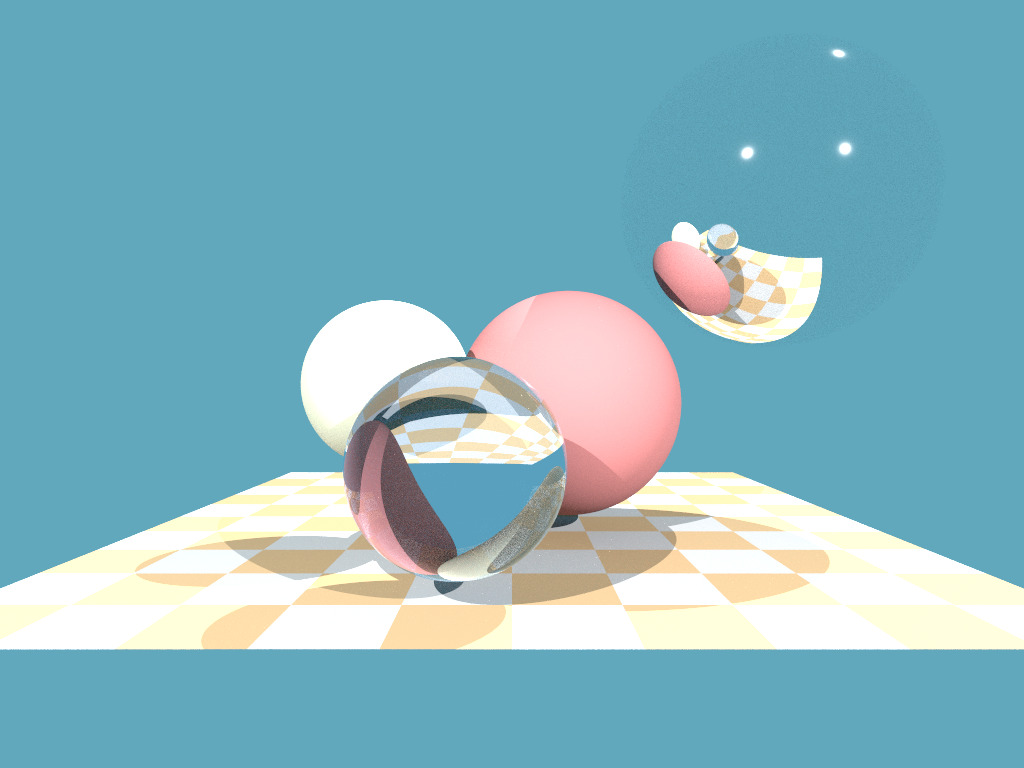
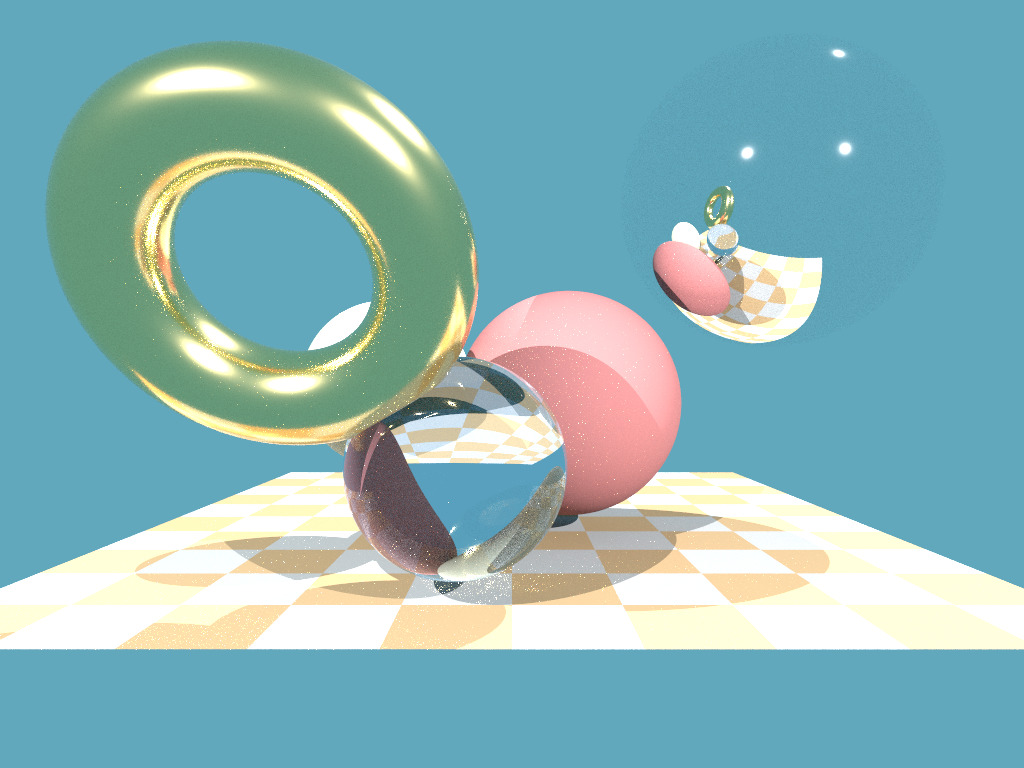
triangle meshes + SAH bounding-volume hierarchy
Render arbitrary triangle meshes next to the analytic spheres, fast:

- Moller-Trumbore ray/triangle intersection; its barycentric (u,v)
  interpolate per-vertex normals for free smooth shading
- BVH built with a binned Surface Area Heuristic (16 bins x 3 axes),
  traversed front-to-back with an explicit stack and ray/AABB slab
  tests -> O(log n) per ray instead of testing all 40k triangles
- minimal Wavefront .obj reader (v / vn / f, polygons fan-triangulated);
  pass a model as argv[1], else a procedural ~40k-tri torus is rendered
- the mesh is just another surface: it casts/receives soft shadows,
  bounces indirect light and shows up in reflections and refractions

scene gains a gold torus; renders in ~8s at 1024x768, 64 spp (OpenMP).

diff --git a/tinyraytracer.cpp b/tinyraytracer.cpp
@@ -1,8 +1,11 @@
 #include <tuple>
 #include <vector>
+#include <string>
+#include <sstream>
 #include <fstream>
 #include <algorithm>
 #include <cstdint>
+#include <cstdio>
 #include <cmath>
 
 constexpr float pi = 3.14159265358979f;
@@ -21,6 +24,10 @@ struct vec3 {
     float norm() const { return std::sqrt(x*x+y*y+z*z); }
     vec3 normalized() const { return (*this)*(1.f/norm()); }
 };
+
+vec3 cross(const vec3 &a, const vec3 &b) {
+    return { a.y*b.z - a.z*b.y, a.z*b.x - a.x*b.z, a.x*b.y - a.y*b.x };
+}
 
 struct RNG { // xorshift64* — a tiny, fast, decent-quality stream of uniforms in [0,1)
     uint64_t s;
@@ -91,6 +98,147 @@ std::tuple<bool,float> ray_sphere_intersect(const vec3 &orig, const vec3 &dir, c
     return {false, 0};
 }
 
+struct Triangle {
+    vec3 v0, v1, v2;   // vertices
+    vec3 n0, n1, n2;   // per-vertex normals (smooth shading); equal to the face normal for a flat triangle
+    vec3 centroid() const { return (v0+v1+v2)*(1.f/3.f); }
+};
+
+std::tuple<bool,float,float,float> ray_triangle_intersect(const vec3 &orig, const vec3 &dir, const Triangle &tr) { // Moller–Trumbore; ret [hit, dist, barycentric u, v]
+    vec3 e1 = tr.v1 - tr.v0, e2 = tr.v2 - tr.v0;
+    vec3 pvec = cross(dir, e2);
+    float det = e1*pvec;
+    if (std::abs(det) < 1e-9f) return {false, 0, 0, 0};  // ray is parallel to the triangle
+    float inv = 1.f/det;
+    vec3 tvec = orig - tr.v0;
+    float u = (tvec*pvec)*inv;
+    if (u<0 || u>1) return {false, 0, 0, 0};
+    vec3 qvec = cross(tvec, e1);
+    float v = (dir*qvec)*inv;
+    if (v<0 || u+v>1) return {false, 0, 0, 0};
+    float t = (e2*qvec)*inv;
+    if (t < 1e-3f) return {false, 0, 0, 0};
+    return {true, t, u, v};
+}
+
+struct AABB {
+    vec3 lo{ 1e30f,  1e30f,  1e30f};
+    vec3 hi{-1e30f, -1e30f, -1e30f};
+    void grow(const vec3 &p) { for (int k=0;k<3;k++) { lo[k]=std::min(lo[k],p[k]); hi[k]=std::max(hi[k],p[k]); } }
+    void grow(const AABB &b) { grow(b.lo); grow(b.hi); }
+    float area() const { vec3 d = hi-lo; return d.x<0 ? 0.f : 2.f*(d.x*d.y + d.y*d.z + d.z*d.x); }
+    bool hit(const vec3 &orig, const vec3 &invd, float tmax) const { // ray/box slab test on [eps, tmax]
+        float tmin = 1e-3f, tmx = tmax;
+        for (int k=0;k<3;k++) {
+            float t1=(lo[k]-orig[k])*invd[k], t2=(hi[k]-orig[k])*invd[k];
+            if (t1>t2) std::swap(t1,t2);
+            tmin = std::max(tmin,t1); tmx = std::min(tmx,t2);
+        }
+        return tmx >= tmin;
+    }
+};
+
+struct BVHNode {
+    AABB box;
+    int left  = -1;        // left child index (right child is left+1); a leaf has left<0
+    int start = 0, count = 0; // triangle range into BVH::index (leaves only)
+};
+
+// Bounding-volume hierarchy built with a binned Surface Area Heuristic, traversed front-to-back with an explicit stack.
+struct BVH {
+    static constexpr int BINS = 16;
+    std::vector<Triangle> tris;
+    std::vector<int>      index;
+    std::vector<BVHNode>  nodes;
+
+    void build() {
+        index.resize(tris.size());
+        for (size_t i=0;i<tris.size();i++) index[i] = int(i);
+        nodes.clear();
+        nodes.reserve(tris.empty() ? 1 : 2*tris.size()); // a BVH over N leaves has <= 2N-1 nodes -> no reallocation
+        nodes.push_back({});
+        if (!tris.empty()) build_node(0, 0, int(tris.size()));
+    }
+
+    void build_node(int node, int start, int count) {
+        AABB box, cbox;                                  // box bounds the geometry, cbox bounds the centroids
+        for (int i=start;i<start+count;i++) {
+            const Triangle &t = tris[index[i]];
+            box.grow(t.v0); box.grow(t.v1); box.grow(t.v2);
+            cbox.grow(t.centroid());
+        }
+        nodes[node].box = box;
+
+        int best_axis=-1, best_bin=-1;
+        float best_cost = box.area()*count;              // SAH cost of making this node a leaf
+        for (int axis=0; axis<3; axis++) {
+            float lo = cbox.lo[axis], hi = cbox.hi[axis];
+            if (hi-lo < 1e-8f) continue;                 // centroids coincide along this axis — nothing to split
+            float scale = BINS/(hi-lo);
+            AABB bin_box[BINS]; int bin_cnt[BINS] = {0};
+            for (int i=start;i<start+count;i++) {
+                const Triangle &t = tris[index[i]];
+                int b = std::min(BINS-1, int((t.centroid()[axis]-lo)*scale));
+                bin_cnt[b]++;
+                bin_box[b].grow(t.v0); bin_box[b].grow(t.v1); bin_box[b].grow(t.v2);
+            }
+            float suf_area[BINS]; int suf_cnt[BINS];      // suffix sweep: area & count of bins [b..BINS)
+            AABB acc; int cnt=0;
+            for (int b=BINS-1;b>=0;b--) { acc.grow(bin_box[b]); cnt+=bin_cnt[b]; suf_area[b]=acc.area(); suf_cnt[b]=cnt; }
+            AABB lacc; int lcnt=0;                        // prefix sweep: evaluate the SAH cost of every split plane
+            for (int b=0;b<BINS-1;b++) {
+                lacc.grow(bin_box[b]); lcnt+=bin_cnt[b];
+                if (!lcnt || !suf_cnt[b+1]) continue;
+                float cost = lacc.area()*lcnt + suf_area[b+1]*suf_cnt[b+1];
+                if (cost < best_cost) { best_cost=cost; best_axis=axis; best_bin=b; }
+            }
+        }
+
+        if (count<=4 || best_axis<0) {                   // leaf: small range, or no split beats keeping it whole
+            nodes[node].left=-1; nodes[node].start=start; nodes[node].count=count;
+            return;
+        }
+
+        int axis = best_axis;
+        float lo = cbox.lo[axis], scale = BINS/(cbox.hi[axis]-cbox.lo[axis]);
+        auto it = std::partition(index.begin()+start, index.begin()+start+count,
+            [&](int id){ return std::min(BINS-1, int((tris[id].centroid()[axis]-lo)*scale)) <= best_bin; });
+        int mid = int(it - index.begin());
+        if (mid==start || mid==start+count) {            // one-sided split — fall back to a centroid median
+            mid = start + count/2;
+            std::nth_element(index.begin()+start, index.begin()+mid, index.begin()+start+count,
+                [&](int x, int y){ return tris[x].centroid()[axis] < tris[y].centroid()[axis]; });
+        }
+
+        int lc = int(nodes.size());
+        nodes.push_back({}); nodes.push_back({});
+        nodes[node].left = lc; nodes[node].count = 0;
+        build_node(lc,   start, mid-start);
+        build_node(lc+1, mid,   start+count-mid);
+    }
+
+    std::tuple<bool,float,float,float,int> intersect(const vec3 &orig, const vec3 &dir) const { // ret [hit, dist, u, v, triangle index]
+        if (nodes.empty()) return {false, 0, 0, 0, -1};
+        vec3 invd{ 1.f/dir.x, 1.f/dir.y, 1.f/dir.z };
+        float best_t=1e30f, bu=0, bv=0; int best=-1;
+        int stack[64], sp=0; stack[sp++]=0;
+        while (sp) {
+            const BVHNode &nd = nodes[stack[--sp]];
+            if (!nd.box.hit(orig, invd, best_t)) continue;
+            if (nd.left<0) {
+                for (int i=nd.start;i<nd.start+nd.count;i++) {
+                    auto [h,t,u,v] = ray_triangle_intersect(orig, dir, tris[index[i]]);
+                    if (h && t<best_t) { best_t=t; bu=u; bv=v; best=index[i]; }
+                }
+            } else { stack[sp++]=nd.left; stack[sp++]=nd.left+1; }
+        }
+        return { best>=0, best_t, bu, bv, best };
+    }
+};
+
+BVH g_mesh;                                              // the triangle mesh, accelerated by its BVH
+constexpr Material mesh_material = {{1.00, 0.78, 0.36}, 0.18, 1.0, 1.5, 0.0, {0,0,0}}; // polished gold
+
 std::tuple<bool,vec3,vec3,Material> scene_intersect(const vec3 &orig, const vec3 &dir) {
     vec3 pt, N;
     Material material;
@@ -116,6 +264,16 @@ std::tuple<bool,vec3,vec3,Material> scene_intersect(const vec3 &orig, const vec3
         pt = orig + dir*nearest_dist;
         N = (pt - s.center).normalized();
         material = s.material;
+    }
+
+    auto [mhit, md, mu, mv, mi] = g_mesh.intersect(orig, dir); // intersect the triangle mesh through its BVH
+    if (mhit && md < nearest_dist) {
+        nearest_dist = md;
+        pt = orig + dir*md;
+        const Triangle &tr = g_mesh.tris[mi];
+        vec3 n = tr.n0*(1-mu-mv) + tr.n1*mu + tr.n2*mv;  // barycentric-interpolated smooth normal
+        N = (n.norm()>1e-6f ? n : cross(tr.v1-tr.v0, tr.v2-tr.v0)).normalized();
+        material = mesh_material;
     }
     return { nearest_dist<1000, pt, N, material };
 }
@@ -251,7 +409,71 @@ vec3 path_trace(vec3 orig, vec3 dir, RNG &rng) {
     return radiance;
 }
 
-int main() {
+std::vector<Triangle> load_obj(const std::string &path) { // minimal Wavefront OBJ reader: v / vn / f, polygons triangulated as fans
+    std::ifstream in(path);
+    std::vector<vec3> verts, norms;
+    std::vector<Triangle> tris;
+    std::string line;
+    while (std::getline(in, line)) {
+        std::istringstream ss(line);
+        std::string tag; ss >> tag;
+        if (tag=="v")  { vec3 p; ss>>p.x>>p.y>>p.z; verts.push_back(p); }
+        else if (tag=="vn") { vec3 n; ss>>n.x>>n.y>>n.z; norms.push_back(n); }
+        else if (tag=="f")  {
+            std::vector<int> vi, ni;
+            std::string tok;
+            while (ss >> tok) {                          // each token is v, v/vt, v//vn or v/vt/vn
+                int v=0, vn=0;
+                size_t s1 = tok.find('/');
+                if (s1==std::string::npos) v = std::stoi(tok);
+                else {
+                    v = std::stoi(tok.substr(0,s1));
+                    size_t s2 = tok.find('/', s1+1);
+                    if (s2!=std::string::npos && s2+1<tok.size()) vn = std::stoi(tok.substr(s2+1));
+                }
+                vi.push_back(v <0 ? int(verts.size())+v : v -1); // OBJ is 1-based; negative indices are relative
+                ni.push_back(vn==0 ? -1 : (vn<0 ? int(norms.size())+vn : vn-1));
+            }
+            for (size_t k=1; k+1<vi.size(); k++) {       // fan-triangulate the face
+                Triangle t;
+                t.v0=verts[vi[0]]; t.v1=verts[vi[k]]; t.v2=verts[vi[k+1]];
+                vec3 gn = cross(t.v1-t.v0, t.v2-t.v0).normalized();
+                t.n0 = ni[0]  >=0 ? norms[ni[0]]  : gn;
+                t.n1 = ni[k]  >=0 ? norms[ni[k]]  : gn;
+                t.n2 = ni[k+1]>=0 ? norms[ni[k+1]]: gn;
+                tris.push_back(t);
+            }
+        }
+    }
+    return tris;
+}
+
+std::vector<Triangle> make_torus(int nu, int nv, float R, float r, vec3 center, float tilt) { // procedural torus with exact vertex normals
+    auto rotx = [tilt](vec3 p){ float c=std::cos(tilt), s=std::sin(tilt); return vec3{p.x, p.y*c-p.z*s, p.y*s+p.z*c}; };
+    auto vert = [&](int i, int j, vec3 &P, vec3 &N) {
+        float u = 2*pi*i/nu, v = 2*pi*j/nv;
+        N = rotx({std::cos(v)*std::cos(u), std::sin(v), std::cos(v)*std::sin(u)});
+        P = rotx({(R+r*std::cos(v))*std::cos(u), r*std::sin(v), (R+r*std::cos(v))*std::sin(u)}) + center;
+    };
+    std::vector<Triangle> tris;
+    tris.reserve(size_t(nu)*nv*2);
+    for (int i=0;i<nu;i++)
+        for (int j=0;j<nv;j++) {
+            vec3 p00,n00,p10,n10,p01,n01,p11,n11;
+            vert(i,         j,         p00,n00); vert((i+1)%nu, j,         p10,n10);
+            vert(i,         (j+1)%nv,  p01,n01); vert((i+1)%nu, (j+1)%nv,  p11,n11);
+            tris.push_back({p00,p10,p11, n00,n10,n11});  // two triangles per quad of the (u,v) grid
+            tris.push_back({p00,p11,p01, n00,n11,n01});
+        }
+    return tris;
+}
+
+int main(int argc, char **argv) {
+    g_mesh.tris = argc>1 ? load_obj(argv[1])             // render an external model if given,
+                         : make_torus(220, 90, 2.3f, 0.8f, {-3.6f, 1.7f, -10.f}, -1.0f); // otherwise a procedural torus
+    g_mesh.build();
+    std::fprintf(stderr, "mesh: %zu triangles, BVH: %zu nodes\n", g_mesh.tris.size(), g_mesh.nodes.size());
+
     constexpr int   width  = 1024;
     constexpr int   height = 768;
     constexpr int   spp    = 64;     // Monte-Carlo samples per pixel (also gives free anti-aliasing)